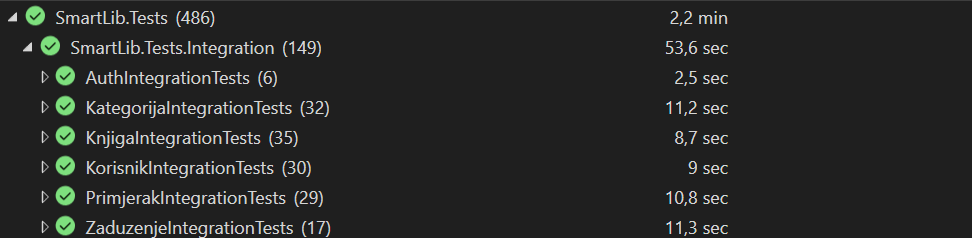
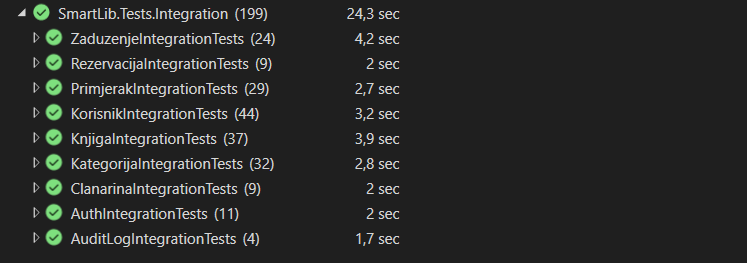
update proof of testing

diff --git a/Sprint8/ProofOfTesting.md b/Sprint8/ProofOfTesting.md
@@ -1,74 +1,20 @@
 # SmartLib — Bibliotečki informacioni sistem
 ## Izvještaj o testiranju
 
-**Datum kreiranja izvještaja:** 12.05.2026.  
+**Datum kreiranja izvještaja:** 19.05.2026.  
 **Okruženje:** Development / Test (In-Memory DB), Chrome (za UI testove)  
 **Alati:** xUnit, WebApplicationFactory, Browser DevTools, Playwright, Fine Code Coverage 
 
 ---
 
-> ## NAPOMENA: Sprint 7 — Pregled novododanih testnih aktivnosti
->
-> U okviru Sprinta 7 provedeno je testiranje novih funkcionalnosti u skladu sa definiranom test strategijom. Svi prethodno implementirani testovi uspješno su zadržali status *Prošao* kroz kontinuirano regresiono testiranje. Pregled svih testnih slučajeva dodanih u okviru Sprinta 7 dat je u nastavku.
->
-> ---
->
-> ### Zaduživanje i vraćanje knjiga
->
-> - **Unit testovi — API kontroler** (`ZaduzenjeApiControllerTests`, 39 testova): pokrivaju kreiranje zaduženja, evidenciju vraćanja, pregled aktivnih i vlastitih zaduženja, filtriranje, computed polja (kašnjenje, blizina roka) te granične slučajeve poput duplikata i nedostupnih primjeraka.
-> - **Unit testovi — Web kontroler** (`ZaduzenjeWebControllerTests`, 29 testova): validiraju iste tokove kroz MVC layer, uključujući redirect logiku, TempData poruke i ispravnost ViewBag dropdownova.
-> - **Integracijski testovi** (`ZaduzenjeIntegrationTests`, 17 testova): kroz realni HTTP pipeline i in-memory bazu validiraju autorizaciju, kreiranje zaduženja, filtriranje, historiju te proces vraćanja knjige.
-> - **UI testovi** (2 testa): Playwright scenariji koji pokrivaju kompletan E2E tok kreiranja novog zaduženja i evidentiranja vraćanja knjige kroz browser.
->
-> ---
->
-> ### Pretraga i prikaz knjiga
->
-> Implementirane i testirane su sljedeće funkcionalnosti:
-> - pretraga knjiga po naslovu i autoru uz mogućnost reseta pretrage,
-> - prikaz stranice sa detaljnim informacijama o knjizi (uključujući obradu slučaja kada knjiga ne postoji),
-> - prikaz dostupnosti i broja slobodnih primjeraka u realnom vremenu.
->
-> Za sve navedene funkcionalnosti dodani su **unit testovi** (API i Web kontroleri), **integracijski testovi**, **sigurnosni / penetracijski testovi** te **UI testovi** — čime je pokrivenost ovih funkcionalnosti usklađena s ostalim modulima sistema.
->
-> ---
->
-> ### Dopuna Web unit testova za preostale kontrolere
->
-> U okviru ovog sprinta dodatno je proširena pokrivenost Web/MVC unit testovima. U folderu `tests/SmartLib.Tests/Unit/WebTests` dodani su testovi za kontrolere koji prethodno nisu bili pokriveni:
->
-> - `AdminController`
-> - `ClanarinaController`
-> - `HomeController`
-> - `RezervacijaController`
->
-> Dodani testovi validiraju osnovno MVC ponašanje kontrolera: vraćanje odgovarajućih `ViewResult` rezultata, ispravnu redirect logiku, rad sa `TempData` porukama, mapiranje podataka u ViewModel/DTO objekte i pozivanje odgovarajućih mock repozitorija/servisa gdje je primjenjivo.
->
-> Također je ažuriran postojeći `KorisnikWebControllerTests.cs`, jer trenutni `KorisnikController` koristi dodatni dependency `IZaduzenjeRepository`. Produkcijski kod kontrolera nije mijenjan; ažuriran je samo test kako bi odgovarao stvarnom konstruktoru kontrolera.
-> 
-> ---
->
-> ### UAT testiranje
->
-> Manuelno prihvatno testiranje provedeno je od strane svih članova tima. Dodani su novi UAT scenariji koji pokrivaju:
-> - zaduživanje knjige — uspješan tok (UAT-23) i slučaj nedostupnog primjerka (UAT-24),
-> - vraćanje knjige (UAT-25),
-> - pregled vlastitih zaduženja od strane člana (UAT-26).
->
-> ---
->
-> ### Regresiono testiranje
->
-> Nakon implementacije svih novih funkcionalnosti izvršeno je regresiono testiranje kompletnog test seta. Posebna pažnja posvećena je modulu zaduživanja i vraćanja knjiga — verificirano je da nove operacije ne narušavaju postojeću logiku upravljanja knjigama, primjercima i korisnicima, te da se statusi primjeraka i svi povezani zapisi konzistentno ažuriraju bez uticaja na ostatak sistema.
 
----
 
 ## 1. Pregled testiranja
-Ovaj dokument predstavlja formalni izvještaj o testiranju provedenom tokom svih razvojnih faza zaključno sa Sprintom 7. Testiranje je provedeno u skladu sa definiranom Test strategijom (Sprint 3) i obuhvata sve funkcionalnosti implementirane u okviru Sprintova 5, 6 i 7 projekta SmartLib.
+Ovaj dokument predstavlja formalni izvještaj o testiranju provedenom tokom svih razvojnih faza zaključno sa Sprintom 8. Testiranje je provedeno u skladu sa definiranom Test strategijom (Sprint 3) i obuhvata sve funkcionalnosti implementirane u okviru Sprintova 5, 6, 7 i 8 projekta SmartLib.
 
 | Ukupno testova | Prošlo  | Preskočeno (Skip) | Greška |
 | :------------- | :------ | :---------------- | :----- |
-| **486**        | **486** | **0**             | **0**  |
+| **593**        | **593** | **0**             | **0**  |
 
 ---
 